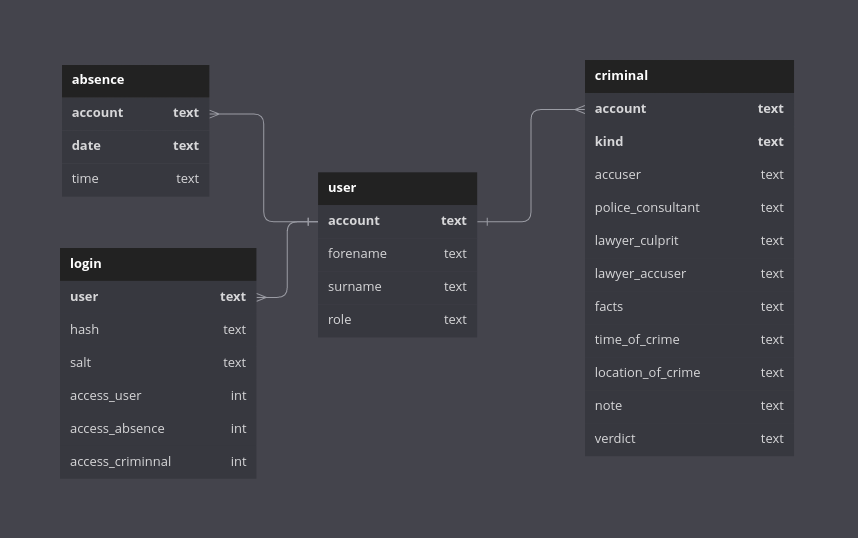
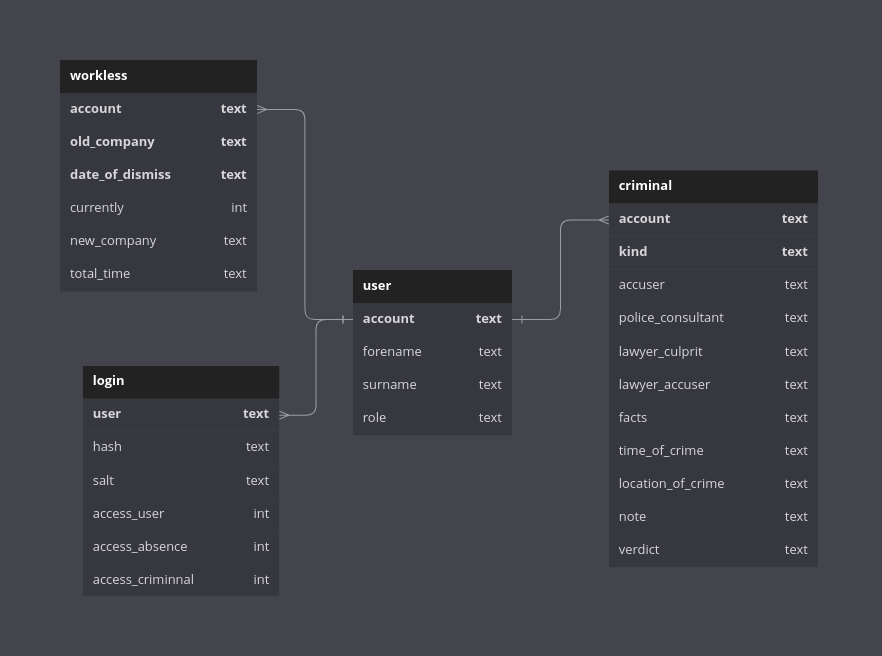
:sparkles: Fixed Docs

diff --git a/README.md b/README.md
@@ -61,6 +61,7 @@ Security:
 
 - User System, an Admin, defined thought the admin.env file
 - Admin can add User with Permissions what they can do cannot do like: Reading/Writing for each Data Type (User, Workless, Criminal)
+- user can change their passwords
 - the passwords are internally hashed and cannot be directly red out of the database
 - logging every Server call (excluding Swagger UI) to separate file called 'log.txt' with Information who did what
 
@@ -95,4 +96,4 @@ The [SQLite](https://sqlite.org/index.html) database has the following schema:
 - [x] More specific search
 - [x] Network test (after we are finished with the UI)
 - [x] Using it in the project week -> worked really well
-- [x] Changes due to customer feedback -> Workless into workless
+- [x] Changes due to customer feedback -> absence into workless
